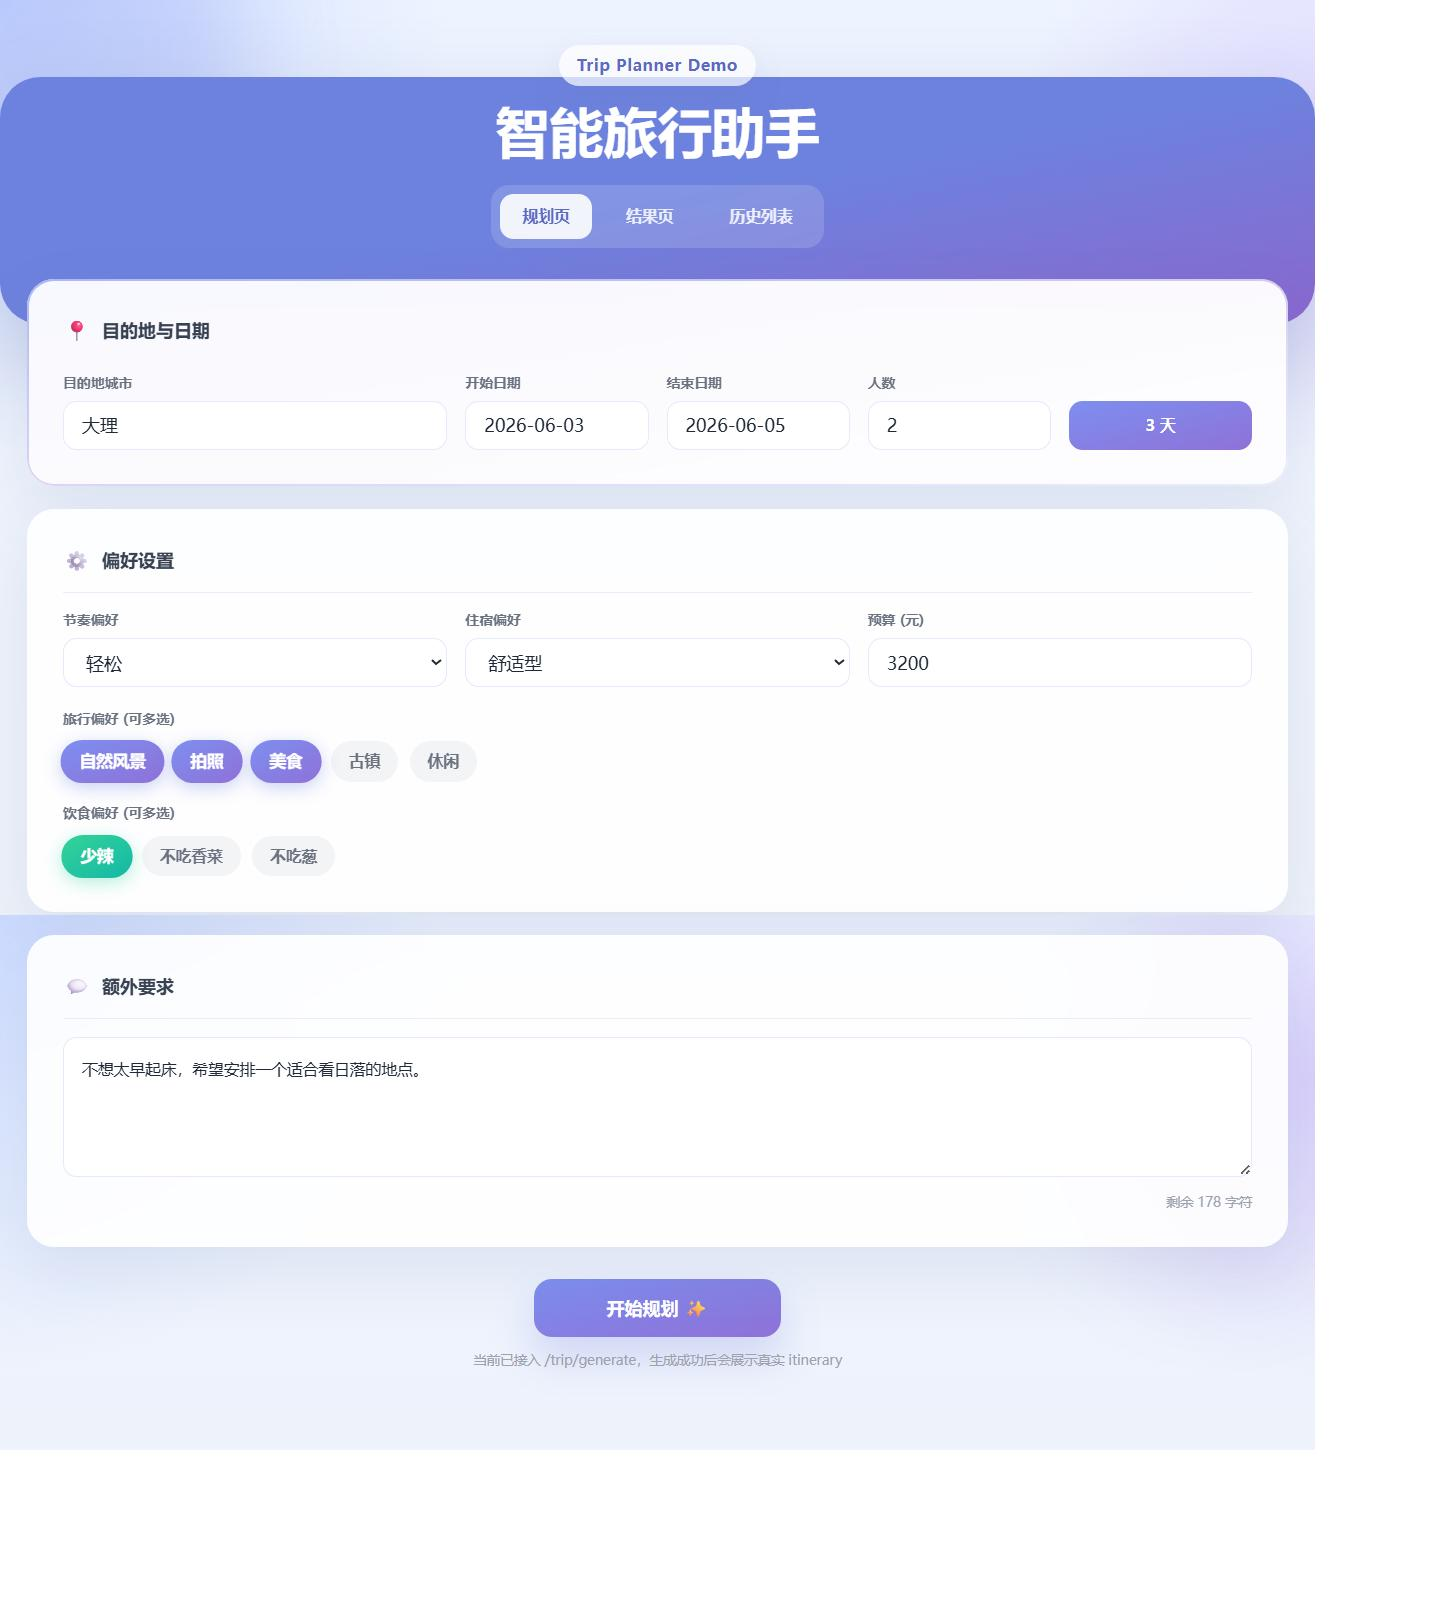
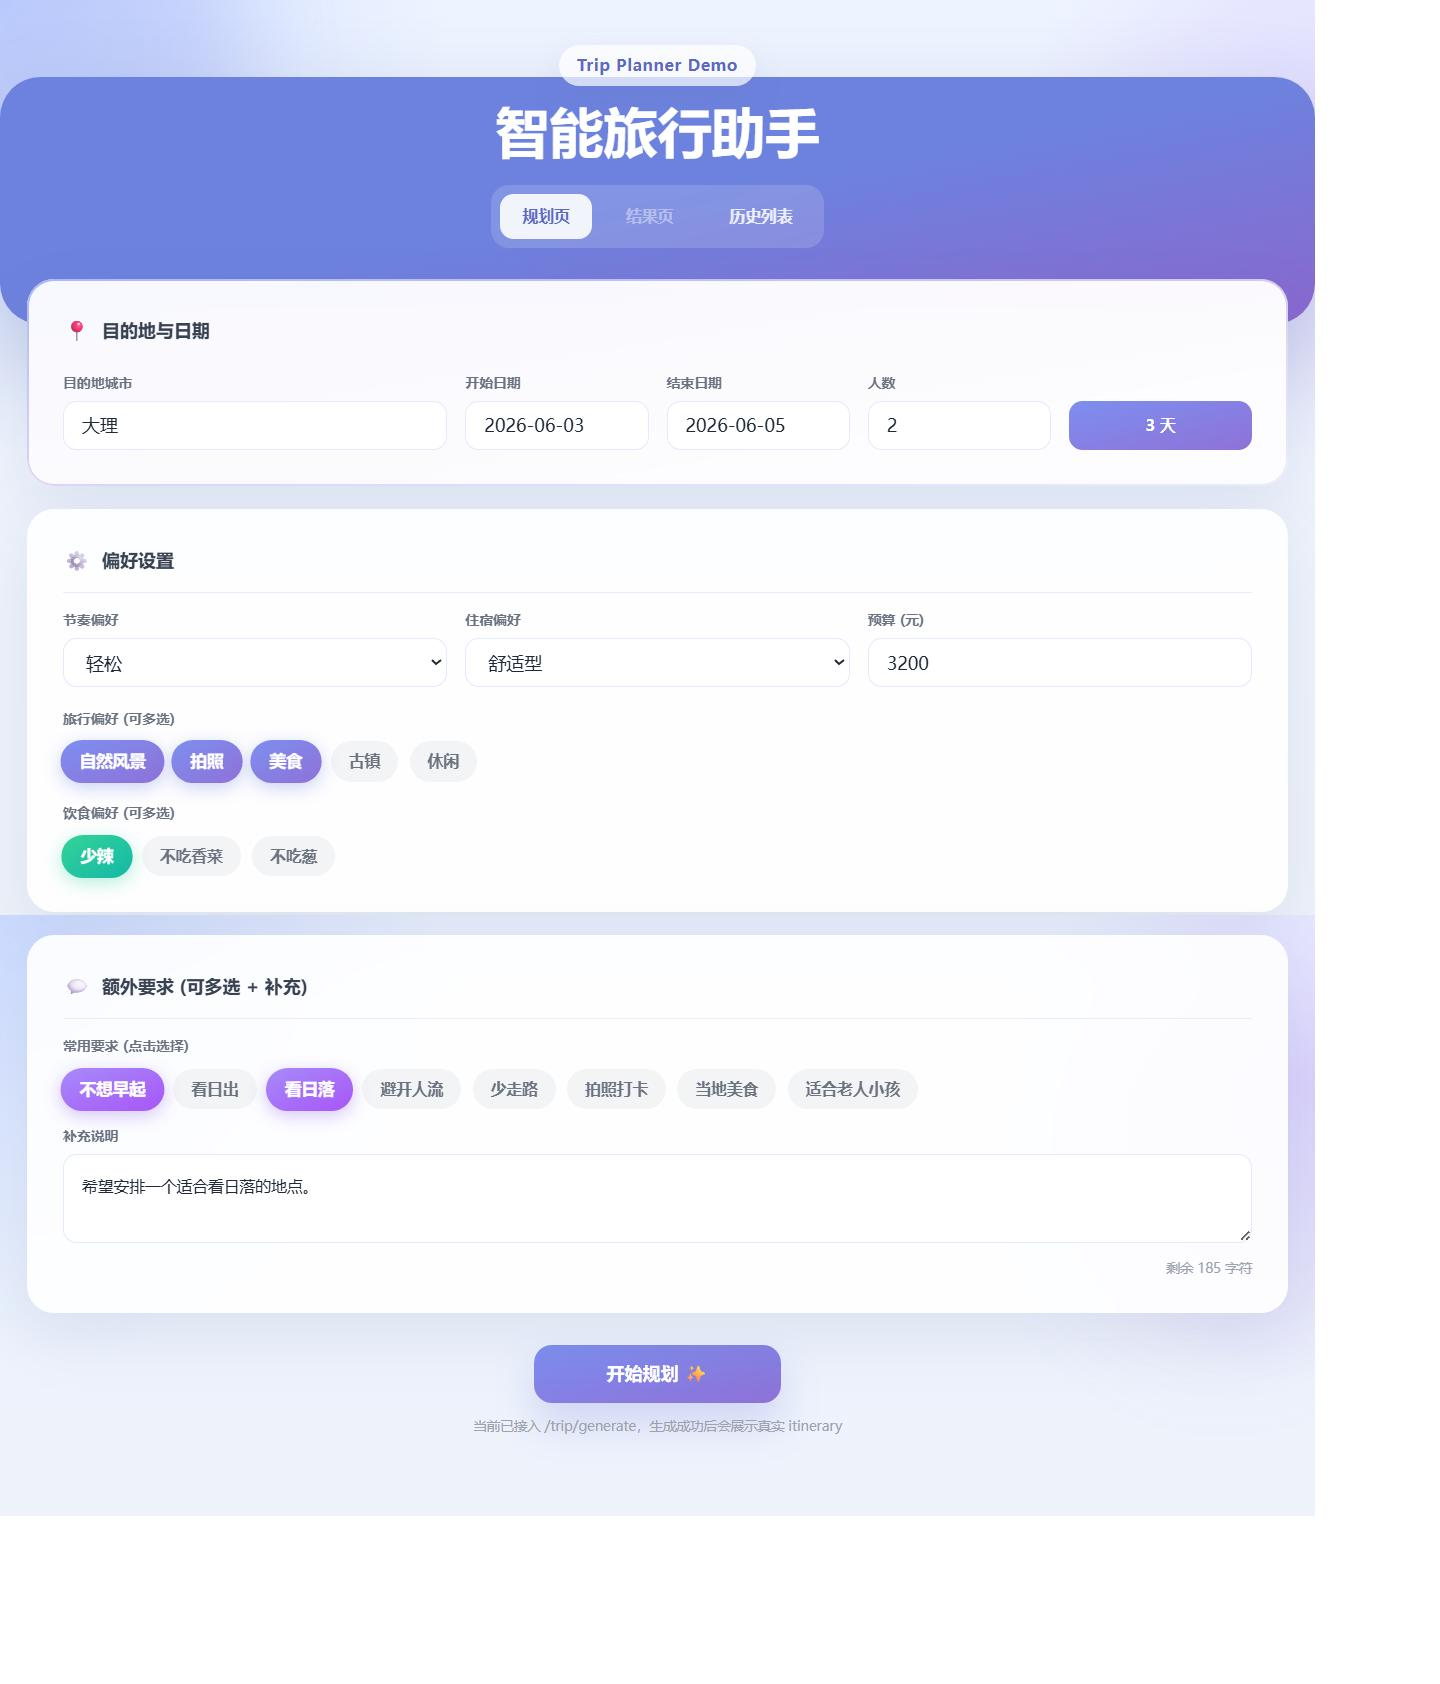
update

diff --git a/README.md b/README.md
@@ -395,7 +395,7 @@ TripPlannerDemo/
 - `frontend/src/services/api.ts`
   Axios 封装与后端接口通信。
 - `frontend/src/views/Home.vue`
-  规划页，收集用户输入并发起行程生成请求。
+  规划页，通过三维度结构化 chips（旅行偏好 / 饮食偏好 / 额外要求） + 补充文本框收集用户需求，合并后传给后端生成行程。
 - `frontend/src/views/Result.vue`
   结果展示页，承接 itinerary、地图、天气和导出交互。
 - `frontend/src/views/History.vue`
